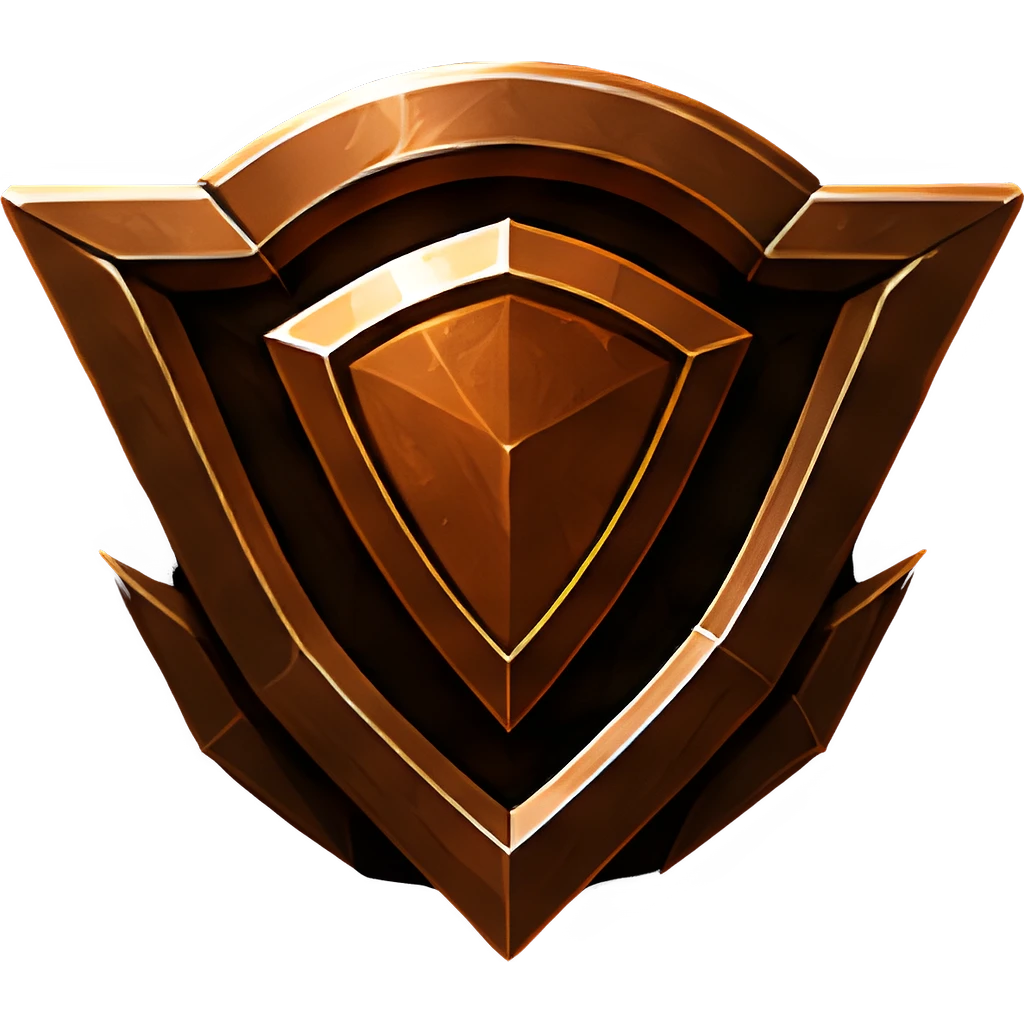
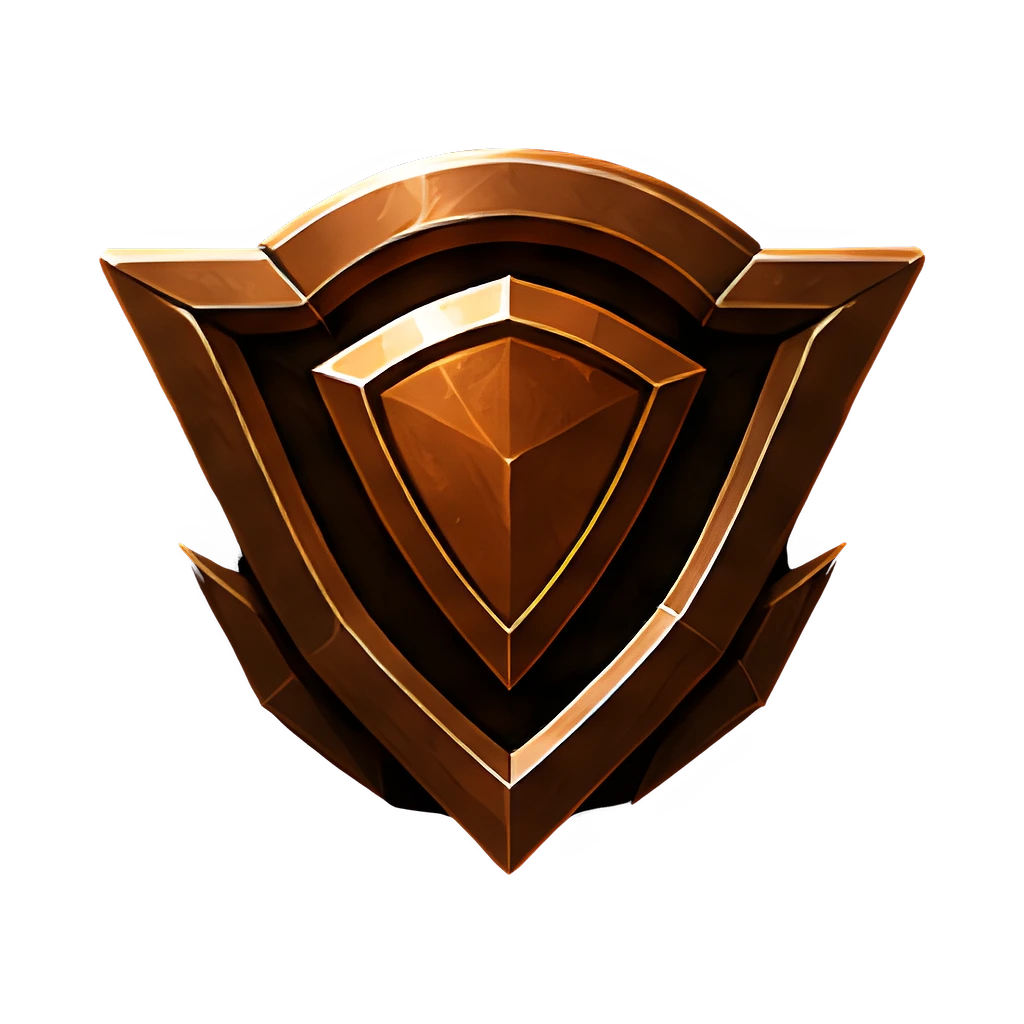
Fix rank badge margin and make the Continue button match the tier color
The trim step cropped badge art flush against its own canvas edge, with
no transparent margin left. That broke two things: the reveal's
drop-shadow had nowhere to fade into (read as a hard square glow during
a tier-up flash) and the leaderboard's circular tier ladder clipped the
badges' shard tips, since a square-edge-touching point sits outside the
circle inscribed in that square. Reprocessed with a 12% transparent
margin added after trim, before the final resize.

Also: the reveal's Continue button now uses the achieved tier's own
color instead of a fixed accent color.

diff --git a/src/features/garage/rating-reveal.tsx b/src/features/garage/rating-reveal.tsx
@@ -275,7 +275,8 @@ export function RatingReveal({
         <button
           type="button"
           onClick={onDone}
-          className="reveal-text-in relative mt-10 rounded-full bg-accent px-8 py-3 text-sm font-semibold text-accent-foreground"
+          className="reveal-text-in relative mt-10 rounded-full px-8 py-3 text-sm font-semibold"
+          style={{ backgroundColor: color, color: "#0a0a0b" }}
         >
           Continue
         </button>
